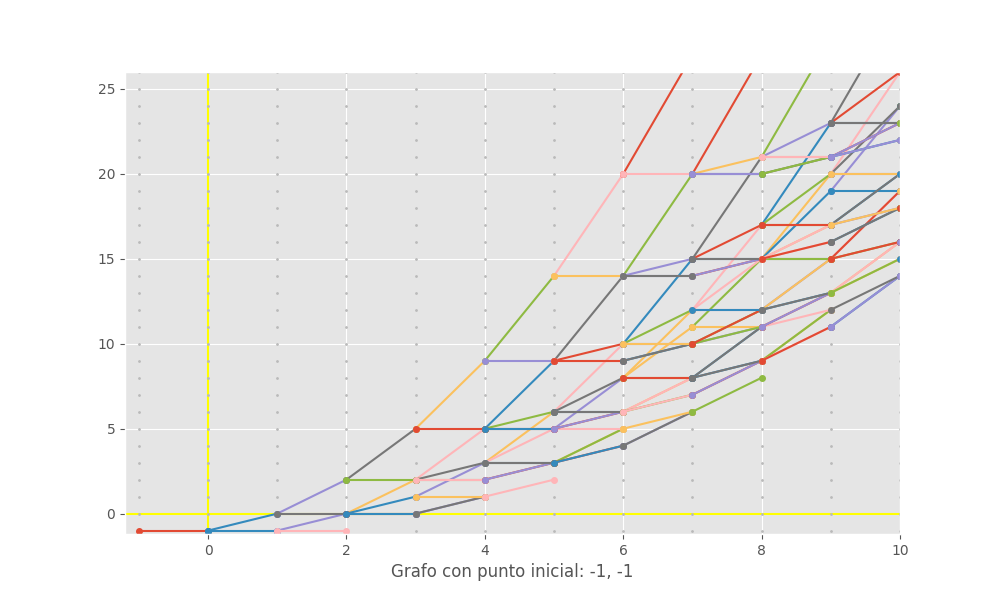
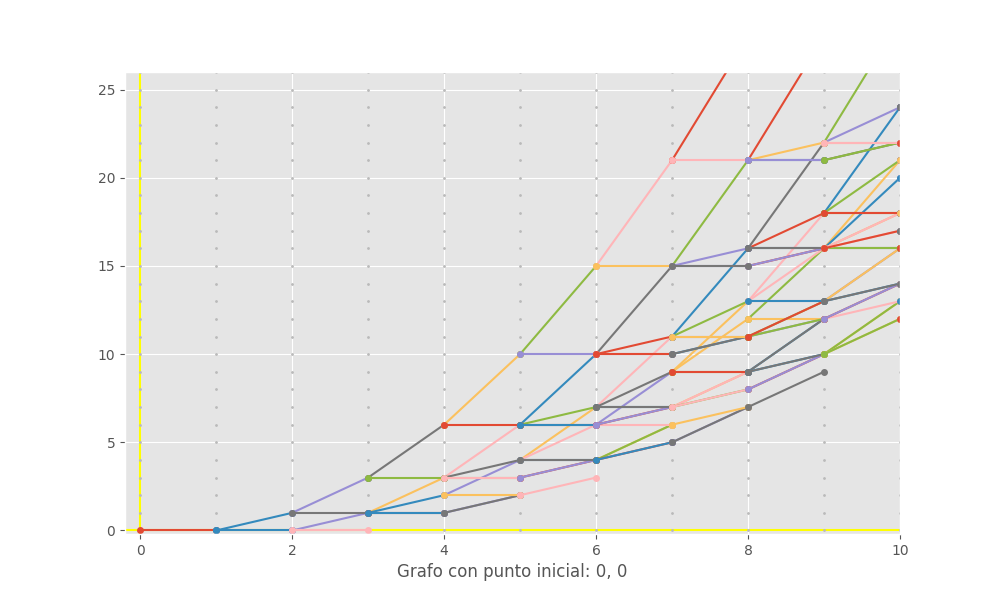
Gamma Pentagonal finished

diff --git a/templates/gammapentagonal.html b/templates/gammapentagonal.html
@@ -24,6 +24,13 @@
                 <h3>Editar grafo:</h3>
                     <form action="." method="post">
                         {% csrf_token %}
+                        {% if failed_graph %}
+                        <label>A random point and permutation has been chosen for you</label>
+                        {% endif %}
+                        {% if mistake_graph%}
+                            <label> {{countfail}} mistakes</label>
+                        {% endif %}
+
                         <label>Punto inicial:</label>
                         <div class="row gtr-uniform">
                             <div class="col-1 col-12-xsmall">
@@ -71,7 +78,7 @@
                 {% if not encrypted %}
 
                 {% if mistake_encrypt%}
-                <!-- <label> Invalid key (remember to separate the elements)</label> -->
+                <label> {{countfail}} mistakes</label>
                 {% endif %}
                 <div class="fields">
                     
@@ -113,10 +120,13 @@
             <form action="." method="post">
                 <h2>Decrypt text</h2>
                 {% csrf_token %}
-                {% if not decrypted_text %}
+                {% if not decrypted %}
 
                 {% if mistake_decrypt%}
-                <!-- <label> Invalid key (remember to separate the elements)</label> -->
+                <label> {{countfail}} mistakes</label>
+                {% endif %}
+                {% if failed_decrypt %}
+                <label>Example: (0, 7) (1, 3) (2, 9) (3, 8) (4, 10) (5, 17) (6, 8) (7, 10) (8, 3) (9, 20) </label>
                 {% endif %}
 
                 <div class="fields">
@@ -135,17 +145,15 @@
                 {% endif %}
             </form>
             <div>
-                {% if decrypted_text %}
-                {% if failed_decrypt %}
-                <label>This are all the posible text:</label>
-                {% else %}
+                {% if decrypted %}
+                
                 <div >
                     <label>Clear text:  </label>
-                    <p>{{cleartext_text}}</p>
+                    <p>{{cleartext}}</p>
                 </div>
                 <div >
                     <label>Encoded text:</label>
-                    <p>{{encodedtext_text}}</p>
+                    <p>{{encodedtext}}</p>
                 </div>
 
                 <ul class="actions">
@@ -154,7 +162,6 @@
                     </form>
 
                 </ul>
-                {% endif %}
                 {% endif %}
             </div>
         </section>

diff --git a/cryptosystem/views.py b/cryptosystem/views.py
@@ -40,6 +40,7 @@ def change_page(name):
 def default_graph():
     global permutacion   
     permutacion = "0 1 2 3 4 5 6 7 8 9"
+    permutacion = convertirPermutacion(permutacion)
     global punto_inicial_x
     global punto_inicial_y
     punto_inicial_x, punto_inicial_y = 0, 0
@@ -1112,60 +1113,79 @@ def cryptosystem_view(request, name=None):
                 
                 #editar grafo
                 actualizar = request.POST.get("actualizar")
-                if actualizar == "Actualizar":
-                    x = request.POST.get("x")
-                    y = request.POST.get("y")
-                    permutacion = request.POST.get("permutacion")
-                    aleatoria = request.POST.get("aleatoria")
-                    if aleatoria == "on":
-                        grafo, permutacion= nuevoGrafoAlt(x, y)
-                    else:
-                        permutacion=convertirPermutacion(permutacion)
-                        grafo = nuevoGrafo(x, y, permutacion)
-                    if grafo == -1:
-                            count_falla=count_falla+1
-                            context['mistake_graph']=True
-                            context['countfail']=count_falla
-                    else:
-                        vectores = grafo
-                        if count_falla>=2:
-                            context['failed_graph']=True
-                        count_falla=0
+                try:
+                    if actualizar == "Actualizar":
+                        x = request.POST.get("x")
+                        y = request.POST.get("y")
+                        permutacion = request.POST.get("permutacion")
+                        aleatoria = request.POST.get("aleatoria")
+                        if aleatoria == "on":
+                            grafo, permutacion= nuevoGrafoAlt(x, y)
+                        else:
+                            permutacion=convertirPermutacion(permutacion)
+                            grafo = nuevoGrafo(x, y, permutacion)
+                        if grafo == -1:
+                                count_falla=count_falla+1
+                                if count_falla>=3:
+                                    context['failed_graph']=True
+                                    count_falla=0
+                                    x, y = generarPunto()
+                                    grafo, permutacion= nuevoGrafoAlt(x, y)
+                                else:
+                                    context['mistake_graph']=True
+                                    context['countfail']=count_falla
+                        else:
+                            count_falla=0
+                            vectores = grafo
+                except:
+                    pass
                 
                 
                 #encrypt
                 encrypt = request.POST.get("encrypt")
-                if encrypt == "Encrypt":
-                    cleartext = request.POST.get("cleartext")
-                    encode = gammaencript(cleartext, permutacion, vectores)
-                    if encode == -1:
-                        count_falla=count_falla+1
-                        context['mistake_encrypt']=True
-                        context['countfail']=count_falla
-                    else:
-                        if count_falla==2:
-                            context['failed_encrypt']=True
-                        context['encrypted']=True
-                        context['cleartext']=cleartext
-                        context['encodedtext']=encode
-                        count_falla=0
-                        
+                try:
+                    if encrypt == "Encrypt":
+                        cleartext = request.POST.get("cleartext")
+                        encode = gammaencript(cleartext, permutacion, vectores)
+                        if encode == -1:
+                                count_falla=count_falla+1
+                                if count_falla>=3:
+                                    context['failed_encrypt']=True
+                                    count_falla=0
+                                else:
+                                    context['mistake_encrypt']=True
+                                    context['countfail']=count_falla
+                        else:
+                            count_falla=0
+                            context['encrypted']=True
+                            context['cleartext']=cleartext
+                            context['encodedtext']=encode
+                except:
+                    pass
+                    
+                    
                 #decrypt
-                decrypt = request.POST.get("Decrypt")
-                if decrypt == "Decrypt":
-                    codedtext = request.POST.get("codedtext")
-                    decode = gammadecript(codedtext, permutacion, vectores)
-                    if decode == -1:
-                        count_falla=count_falla+1
-                        context['mistake_decrypt']=True
-                        context['countfail']=count_falla
-                    else:
-                        if count_falla==2:
-                            context['failed_decrypt']=True
-                        context['decrypted']=True
-                        context['cleartext']=decode
-                        context['encodedtext']=codedtext
-                        count_falla=0
+                decrypt = request.POST.get("decrypt")
+                try:
+                    if decrypt == "Decrypt":
+                        codedtext = request.POST.get("codedtext")
+                        decode = gammadecript(codedtext, permutacion, vectores)
+                        if decode == -1:
+                                count_falla=count_falla+1
+                                if count_falla>=3:
+                                    context['failed_decrypt']=True
+                                    count_falla=0
+                                else:
+                                    context['mistake_decrypt']=True
+                                    context['countfail']=count_falla
+                        else:
+                            count_falla=0
+                            context['decrypted']=True
+                            context['cleartext']=decode
+                            context['encodedtext']=codedtext
+                except:
+                    pass
+                
 
                 
     return render(request, view, context=context)

diff --git a/BackendReady/GammaPentagonal.py b/BackendReady/GammaPentagonal.py
@@ -11,7 +11,12 @@ def generarPermutacion():
         permutacion.append(random.randint(0, 25))
     return(permutacion)
 
-
+#Genera un punto inicial x, y
+def generarPunto():
+    x = random.randint(-10, 3)
+    y = random.randint(-10, 3)
+    return x, y
+    
 #Dibuja la permutación 
 def dibujarPermutacion(permutacion, x, y):
     
@@ -145,17 +150,36 @@ def gammaencript(palabra,permu,vectores):
                 if (i%10,j) not in list(vectores.keys()):
                     vectores[(i%10,j)] = []
                 vectorconvert.append(((i%10)+len(vectores[(i%10,j)]),j))
+    vectorconvert_str = ""
+    for i in vectorconvert:
+        vectorconvert_str+= str(i)+" "
 
-    return vectorconvert
+    return vectorconvert_str
 
 
 #Decriptación
 def gammadecript(vectorconvert,permu,vectores):
-    alfabeto = ['a', 'b', 'c', 'd', 'e', 'f', 'g', 'h', 'i', 'j', 'k', 'l','m', 'n', 'o', 'p', 'q', 'r', 's', 't', 'u', 'v', 'w', 'x', 'y', 'z']
-    palabra = []
-    for i in range(0,len(vectorconvert)):
-        palabra.append(alfabeto[(permu[i%10]+vectorconvert[i][1])%26])
-    return palabra
+    try:
+        vectorconvert =vectorconvert.replace(" ", '')
+        vectorconvert = vectorconvert.replace(")", '')
+        vectorconvert = vectorconvert.split("(")
+        for i in range(0, len(vectorconvert)):
+            vectorconvert[i]=vectorconvert[i].split(",")
+        vectorconvert.pop(0)
+        if vectorconvert==[]:
+            return -1
+        alfabeto = ['a', 'b', 'c', 'd', 'e', 'f', 'g', 'h', 'i', 'j', 'k', 'l','m', 'n', 'o', 'p', 'q', 'r', 's', 't', 'u', 'v', 'w', 'x', 'y', 'z']
+        palabra = []
+        for i in range(0,len(vectorconvert)):
+            palabra.append(alfabeto[(permu[i%10]+ int(vectorconvert[i][1]))%26])
+            
+        palabra_str = ""
+        for i in palabra:
+            palabra_str = palabra_str + i
+            
+        return palabra_str
+    except:
+        return -1
 
 def convertirPermutacion(permutacion):
     try:
